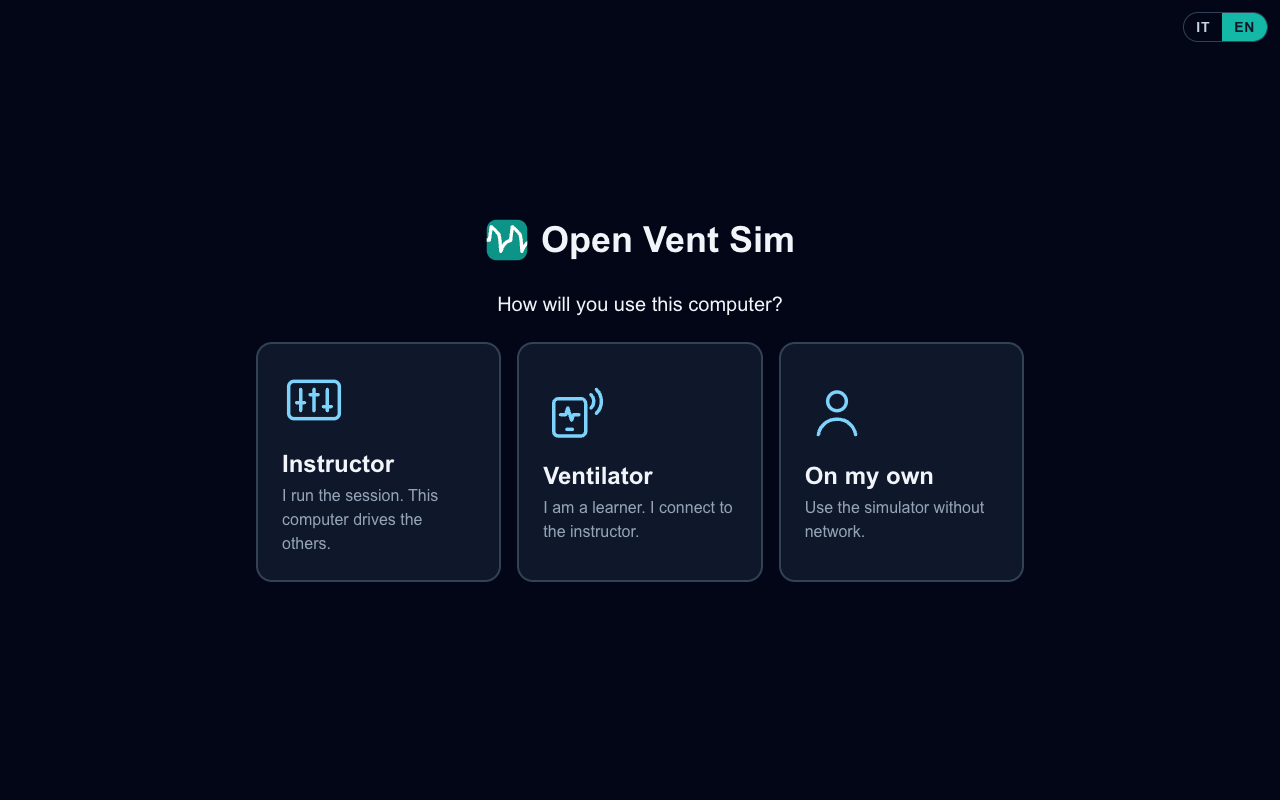
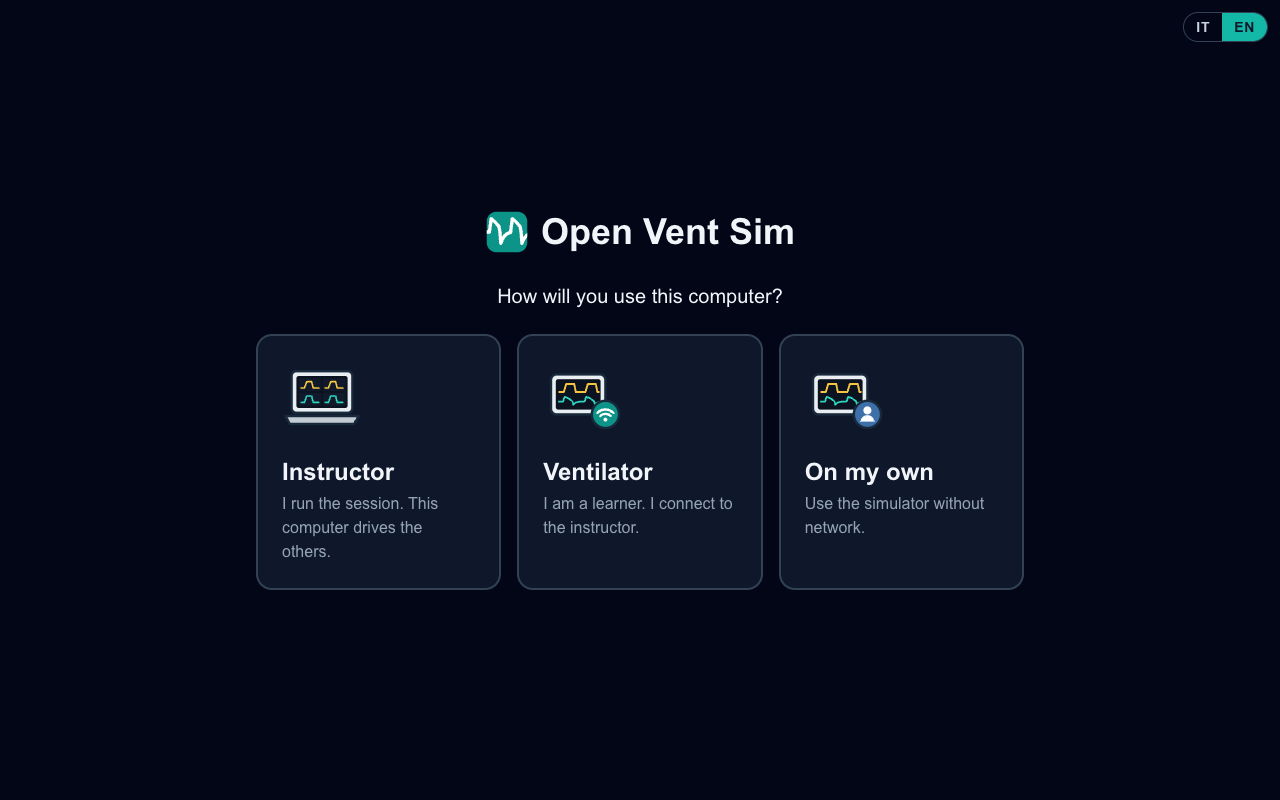
Launcher: icone illustrate e schede allineate in alto
Le tre icone al tratto della prima schermata (regia, ventilatore, da solo)
erano della vecchia serie, e sedevano storte: il pulsante centra il contenuto e
con descrizioni di lunghezza diversa ogni icona stava a un'altezza sua. Ora
sono illustrate come le tessere (un portatile che vede quattro ventilatori; il
tablet con le curve e il segno della rete; lo stesso tablet con una persona)
e le schede sono allineate in alto con un posto fisso per l'icona.

Claude-Session: https://claude.ai/code/session_01QCkmf2xY3HGdbZE6uR4obD

diff --git a/components/icons.tsx b/components/icons.tsx
@@ -19,22 +19,52 @@ const Svg: React.FC<P & { children: React.ReactNode }> = ({ size = 24, className
 
 
 
-/** Learner device joining the classroom: tablet with an incoming signal. */
-export const LearnerDeviceIcon: React.FC<P> = (p) => (
-  <Svg {...p}>
-    <rect x="4" y="7" width="12" height="14" rx="1.8" />
-    <path d="M9 18.5h2" />
-    <path d="M6.5 13h2l.8-2.5 1.4 4.5.8-2H13.5" />
-    <path d="M18 5.5a3.5 3.5 0 0 1 0 5M20 3.5a6.3 6.3 0 0 1 0 9" />
-  </Svg>
+
+
+/** Instructor console: a laptop that sees every ventilator — four small screens with their curves. */
+export const DirectorIcon: React.FC<P> = ({ size = 24, className, title }) => (
+  <svg xmlns="http://www.w3.org/2000/svg" viewBox="0 0 100 100" width={size} height={size} className={className}
+    role={title ? 'img' : undefined} aria-hidden={title ? undefined : true}>
+    {title && <title>{title}</title>}
+    <rect x="12" y="14" width="76" height="52" rx="6" fill="#e9eef2" stroke="#17293a" strokeWidth="3" />
+    <rect x="18" y="20" width="64" height="40" rx="3" fill="#0b1220" />
+    <rect x="21" y="23" width="28" height="16" rx="2" fill="#111a2b" /><rect x="51" y="23" width="28" height="16" rx="2" fill="#111a2b" />
+    <rect x="21" y="41" width="28" height="16" rx="2" fill="#111a2b" /><rect x="51" y="41" width="28" height="16" rx="2" fill="#111a2b" />
+    <path d="M24 35 h4 l3 -8 h6 l2 8 h7 M54 35 h4 l3 -8 h6 l2 8 h7" fill="none" stroke="#f5c542" strokeWidth="2" strokeLinecap="round" strokeLinejoin="round" />
+    <path d="M24 53 h4 l3 -8 h6 l2 8 h7 M54 53 h4 l3 -8 h6 l2 8 h7" fill="none" stroke="#2dd4bf" strokeWidth="2" strokeLinecap="round" strokeLinejoin="round" />
+    <path d="M4 70 H96 L90 80 H10 Z" fill="#c3ccd3" stroke="#17293a" strokeWidth="3" strokeLinejoin="round" />
+    <path d="M42 70 H58" stroke="#17293a" strokeWidth="2.4" strokeLinecap="round" />
+  </svg>
 );
 
-/** Single user, no network. */
-export const SoloIcon: React.FC<P> = (p) => (
-  <Svg {...p}>
-    <circle cx="12" cy="8" r="3.5" />
-    <path d="M5 20.5c.7-3.6 3.4-5.8 7-5.8s6.3 2.2 7 5.8" />
-  </Svg>
+/** Learner ventilator: a tablet with the curves, connected to the instructor (the network badge). */
+export const LearnerDeviceIcon: React.FC<P> = ({ size = 24, className, title }) => (
+  <svg xmlns="http://www.w3.org/2000/svg" viewBox="0 0 100 100" width={size} height={size} className={className}
+    role={title ? 'img' : undefined} aria-hidden={title ? undefined : true}>
+    {title && <title>{title}</title>}
+    <rect x="10" y="18" width="68" height="50" rx="7" fill="#e9eef2" stroke="#17293a" strokeWidth="3" />
+    <rect x="16" y="24" width="56" height="38" rx="3" fill="#0b1220" />
+    <path d="M20 40 h6 l3 -10 h10 l2 10 h12 l3 -10 h10 l2 10 h2" fill="none" stroke="#f5c542" strokeWidth="2.4" strokeLinecap="round" strokeLinejoin="round" />
+    <path d="M20 52 h5 l2 -6 c4 1 7 3 9 5 l1 1 l1 4 c2 -3 5 -4 10 -4 h4 l2 -6 c4 1 7 3 9 5 l1 1 l1 4 c1 -2 2 -3 4 -3" fill="none" stroke="#2dd4bf" strokeWidth="2.2" strokeLinecap="round" strokeLinejoin="round" />
+    <circle cx="78" cy="68" r="17" fill="#0d9488" stroke="#17293a" strokeWidth="3" />
+    <path d="M68 66 a14 14 0 0 1 20 0 M71.5 70 a9 9 0 0 1 13 0" fill="none" stroke="#fff" strokeWidth="3" strokeLinecap="round" />
+    <circle cx="78" cy="74.5" r="2.4" fill="#fff" />
+  </svg>
+);
+
+/** On my own: the same tablet, used by one person without a network. */
+export const SoloIcon: React.FC<P> = ({ size = 24, className, title }) => (
+  <svg xmlns="http://www.w3.org/2000/svg" viewBox="0 0 100 100" width={size} height={size} className={className}
+    role={title ? 'img' : undefined} aria-hidden={title ? undefined : true}>
+    {title && <title>{title}</title>}
+    <rect x="10" y="18" width="68" height="50" rx="7" fill="#e9eef2" stroke="#17293a" strokeWidth="3" />
+    <rect x="16" y="24" width="56" height="38" rx="3" fill="#0b1220" />
+    <path d="M20 40 h6 l3 -10 h10 l2 10 h12 l3 -10 h10 l2 10 h2" fill="none" stroke="#f5c542" strokeWidth="2.4" strokeLinecap="round" strokeLinejoin="round" />
+    <path d="M20 52 h5 l2 -6 c4 1 7 3 9 5 l1 1 l1 4 c2 -3 5 -4 10 -4 h4 l2 -6 c4 1 7 3 9 5 l1 1 l1 4 c1 -2 2 -3 4 -3" fill="none" stroke="#2dd4bf" strokeWidth="2.2" strokeLinecap="round" strokeLinejoin="round" />
+    <circle cx="78" cy="68" r="17" fill="#3d6fa8" stroke="#17293a" strokeWidth="3" />
+    <circle cx="78" cy="63" r="5" fill="#fff" />
+    <path d="M69 77 c1.5 -5.5 5 -8 9 -8 s7.5 2.5 9 8" fill="#fff" />
+  </svg>
 );
 
 export const BookIcon: React.FC<P> = (p) => (
@@ -159,12 +189,6 @@ export const GearIcon: React.FC<P> = (p) => (
 export const TourIcon: React.FC<P> = (p) => (
   <Svg {...p} strokeWidth={p.strokeWidth ?? 1.75}>
       <circle cx="12" cy="12" r="9"/><path d="M15.5 8.5l-2 5-5 2 2-5z"/>
-  </Svg>
-);
-/** Instructor console: a desk of sliders — the one who adjusts the case. */
-export const DirectorIcon: React.FC<P> = (p) => (
-  <Svg {...p} strokeWidth={p.strokeWidth ?? 1.75}>
-      <rect x="2.5" y="5" width="19" height="14" rx="2"/><path d="M7 8v8M12 8v8M17 8v8"/><path d="M5.5 13h3M10.5 10h3M15.5 14.5h3"/>
   </Svg>
 );
 

diff --git a/remote/Launcher.tsx b/remote/Launcher.tsx
@@ -176,17 +176,19 @@ export const DesktopLauncher: React.FC<{ onSolo: () => void }> = ({ onSolo }) =>
       <p className="mt-6 mb-6 text-xl">{l.question}</p>
       {error && <p className="text-red-400 mb-4 max-w-lg text-center">{l.error} {error}</p>}
       <div className="grid gap-4 sm:grid-cols-3 w-full max-w-3xl">
-        <Choice testId="choose-regia" icon={<DirectorIcon size={64} strokeWidth={1.3} />} title={l.regia} desc={l.regiaDesc} onClick={startRegia} />
-        <Choice testId="choose-vent" icon={<LearnerDeviceIcon size={64} strokeWidth={1.3} />} title={l.vent} desc={l.ventDesc} onClick={() => setStep('find')} />
-        <Choice testId="choose-solo" icon={<SoloIcon size={64} strokeWidth={1.3} />} title={l.solo} desc={l.soloDesc} onClick={onSolo} />
+        <Choice testId="choose-regia" icon={<DirectorIcon size={80} />} title={l.regia} desc={l.regiaDesc} onClick={startRegia} />
+        <Choice testId="choose-vent" icon={<LearnerDeviceIcon size={80} />} title={l.vent} desc={l.ventDesc} onClick={() => setStep('find')} />
+        <Choice testId="choose-solo" icon={<SoloIcon size={80} />} title={l.solo} desc={l.soloDesc} onClick={onSolo} />
       </div>
     </Shell>
   );
 };
 
 const Choice: React.FC<{ icon: React.ReactNode; title: string; desc: string; onClick: () => void; testId: string }> = ({ icon, title, desc, onClick, testId }) => (
-  <button data-testid={testId} onClick={onClick} className="rounded-2xl bg-slate-900 border-2 border-slate-700 hover:border-sky-400 p-6 text-left transition">
-    <div className="mb-4 text-sky-300">{icon}</div>
+  // Top-aligned, with a fixed place for the icon: a <button> centres its content,
+  // and with descriptions of different lengths every icon sat at its own height.
+  <button data-testid={testId} onClick={onClick} className="h-full rounded-2xl bg-slate-900 border-2 border-slate-700 hover:border-sky-400 p-6 text-left transition flex flex-col items-start justify-start">
+    <div className="mb-4 h-20 w-20 flex items-center justify-center">{icon}</div>
     <div className="text-2xl font-bold">{title}</div>
     <div className="text-slate-400 mt-1">{desc}</div>
   </button>
